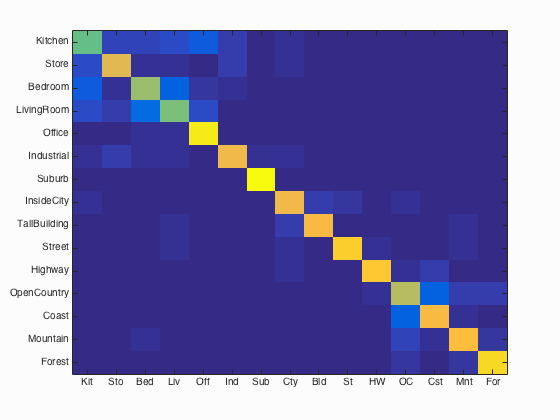
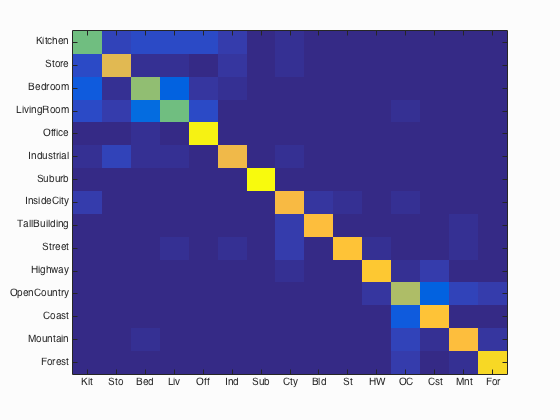
Add thumbnail images

Changed region(s): [[0.3339, 0.0619, 0.3946, 0.1548], [0.1214, 0.4333, 0.1821, 0.5262], [0.4857, 0.5571, 0.5464, 0.619]]

diff --git a/code/results_webpage/index.html b/code/results_webpage/index.html
@@ -50,183 +50,183 @@ Accuracy (mean of diagonal of confusion matrix) is 0.799
 </tr>
 <tr>
 <td>Kitchen</td>
-<td>0.570</td>
-<td bgcolor=LightBlue><img src="thumbnails/Kitchen_image_0034.jpg" width=75.0000000000 height=57.0000000000></td>
-<td bgcolor=LightBlue><img src="thumbnails/Kitchen_image_0199.jpg" width=75.0000000000 height=100.0000000000></td>
-<td bgcolor=LightGreen><img src="thumbnails/Kitchen_image_0115.jpg" width=75.0000000000 height=100.0000000000></td>
-<td bgcolor=LightGreen><img src="thumbnails/Kitchen_image_0171.jpg" width=75.0000000000 height=100.0000000000></td>
-<td bgcolor=LightCoral><img src="thumbnails/InsideCity_image_0012.jpg" width=75.0000000000 height=75.0000000000><br><small>InsideCity</small></td>
-<td bgcolor=LightCoral><img src="thumbnails/Bedroom_image_0013.jpg" width=75.0000000000 height=100.0000000000><br><small>Bedroom</small></td>
-<td bgcolor=#FFBB55><img src="thumbnails/Kitchen_image_0008.jpg" width=75.0000000000 height=100.0000000000><br><small>Office</small></td>
-<td bgcolor=#FFBB55><img src="thumbnails/Kitchen_image_0168.jpg" width=75.0000000000 height=112.0000000000><br><small>Store</small></td>
+<td>0.580</td>
+<td bgcolor=LightBlue><img src="thumbnails/Kitchen_image_0208.jpg" width=75.0000000000 height=100.0000000000></td>
+<td bgcolor=LightBlue><img src="thumbnails/Kitchen_image_0074.jpg" width=75.0000000000 height=107.0000000000></td>
+<td bgcolor=LightGreen><img src="thumbnails/Kitchen_image_0090.jpg" width=75.0000000000 height=113.0000000000></td>
+<td bgcolor=LightGreen><img src="thumbnails/Kitchen_image_0173.jpg" width=75.0000000000 height=98.0000000000></td>
+<td bgcolor=LightCoral><img src="thumbnails/Bedroom_image_0024.jpg" width=75.0000000000 height=95.0000000000><br><small>Bedroom</small></td>
+<td bgcolor=LightCoral><img src="thumbnails/Bedroom_image_0047.jpg" width=75.0000000000 height=101.0000000000><br><small>Bedroom</small></td>
+<td bgcolor=#FFBB55><img src="thumbnails/Kitchen_image_0125.jpg" width=75.0000000000 height=114.0000000000><br><small>Mountain</small></td>
+<td bgcolor=#FFBB55><img src="thumbnails/Kitchen_image_0183.jpg" width=75.0000000000 height=100.0000000000><br><small>Bedroom</small></td>
 </tr>
 <tr>
 <td>Store</td>
-<td>0.770</td>
-<td bgcolor=LightBlue><img src="thumbnails/Store_image_0105.jpg" width=75.0000000000 height=57.0000000000></td>
-<td bgcolor=LightBlue><img src="thumbnails/Store_image_0163.jpg" width=75.0000000000 height=100.0000000000></td>
-<td bgcolor=LightGreen><img src="thumbnails/Store_image_0033.jpg" width=75.0000000000 height=95.0000000000></td>
-<td bgcolor=LightGreen><img src="thumbnails/Store_image_0115.jpg" width=75.0000000000 height=100.0000000000></td>
-<td bgcolor=LightCoral><img src="thumbnails/Kitchen_image_0062.jpg" width=75.0000000000 height=113.0000000000><br><small>Kitchen</small></td>
-<td bgcolor=LightCoral><img src="thumbnails/Industrial_image_0144.jpg" width=75.0000000000 height=100.0000000000><br><small>Industrial</small></td>
-<td bgcolor=#FFBB55><img src="thumbnails/Store_image_0143.jpg" width=75.0000000000 height=113.0000000000><br><small>Kitchen</small></td>
-<td bgcolor=#FFBB55><img src="thumbnails/Store_image_0013.jpg" width=75.0000000000 height=131.0000000000><br><small>Industrial</small></td>
+<td>0.780</td>
+<td bgcolor=LightBlue><img src="thumbnails/Store_image_0298.jpg" width=75.0000000000 height=100.0000000000></td>
+<td bgcolor=LightBlue><img src="thumbnails/Store_image_0177.jpg" width=75.0000000000 height=113.0000000000></td>
+<td bgcolor=LightGreen><img src="thumbnails/Store_image_0106.jpg" width=75.0000000000 height=85.0000000000></td>
+<td bgcolor=LightGreen><img src="thumbnails/Store_image_0040.jpg" width=75.0000000000 height=62.0000000000></td>
+<td bgcolor=LightCoral><img src="thumbnails/Bedroom_image_0112.jpg" width=75.0000000000 height=133.0000000000><br><small>Bedroom</small></td>
+<td bgcolor=LightCoral><img src="thumbnails/Kitchen_image_0113.jpg" width=75.0000000000 height=113.0000000000><br><small>Kitchen</small></td>
+<td bgcolor=#FFBB55><img src="thumbnails/Store_image_0102.jpg" width=75.0000000000 height=100.0000000000><br><small>Industrial</small></td>
+<td bgcolor=#FFBB55><img src="thumbnails/Store_image_0082.jpg" width=75.0000000000 height=135.0000000000><br><small>LivingRoom</small></td>
 </tr>
 <tr>
 <td>Bedroom</td>
-<td>0.650</td>
-<td bgcolor=LightBlue><img src="thumbnails/Bedroom_image_0186.jpg" width=75.0000000000 height=113.0000000000></td>
-<td bgcolor=LightBlue><img src="thumbnails/Bedroom_image_0089.jpg" width=75.0000000000 height=101.0000000000></td>
-<td bgcolor=LightGreen><img src="thumbnails/Bedroom_image_0115.jpg" width=75.0000000000 height=89.0000000000></td>
-<td bgcolor=LightGreen><img src="thumbnails/Bedroom_image_0130.jpg" width=75.0000000000 height=132.0000000000></td>
-<td bgcolor=LightCoral><img src="thumbnails/LivingRoom_image_0037.jpg" width=75.0000000000 height=113.0000000000><br><small>LivingRoom</small></td>
-<td bgcolor=LightCoral><img src="thumbnails/OpenCountry_image_0121.jpg" width=75.0000000000 height=75.0000000000><br><small>OpenCountry</small></td>
-<td bgcolor=#FFBB55><img src="thumbnails/Bedroom_image_0152.jpg" width=75.0000000000 height=106.0000000000><br><small>LivingRoom</small></td>
-<td bgcolor=#FFBB55><img src="thumbnails/Bedroom_image_0030.jpg" width=75.0000000000 height=97.0000000000><br><small>Store</small></td>
+<td>0.640</td>
+<td bgcolor=LightBlue><img src="thumbnails/Bedroom_image_0210.jpg" width=75.0000000000 height=111.0000000000></td>
+<td bgcolor=LightBlue><img src="thumbnails/Bedroom_image_0185.jpg" width=75.0000000000 height=100.0000000000></td>
+<td bgcolor=LightGreen><img src="thumbnails/Bedroom_image_0128.jpg" width=75.0000000000 height=115.0000000000></td>
+<td bgcolor=LightGreen><img src="thumbnails/Bedroom_image_0104.jpg" width=75.0000000000 height=95.0000000000></td>
+<td bgcolor=LightCoral><img src="thumbnails/Store_image_0117.jpg" width=75.0000000000 height=71.0000000000><br><small>Store</small></td>
+<td bgcolor=LightCoral><img src="thumbnails/LivingRoom_image_0062.jpg" width=75.0000000000 height=100.0000000000><br><small>LivingRoom</small></td>
+<td bgcolor=#FFBB55><img src="thumbnails/Bedroom_image_0170.jpg" width=75.0000000000 height=93.0000000000><br><small>LivingRoom</small></td>
+<td bgcolor=#FFBB55><img src="thumbnails/Bedroom_image_0140.jpg" width=75.0000000000 height=113.0000000000><br><small>LivingRoom</small></td>
 </tr>
 <tr>
 <td>LivingRoom</td>
-<td>0.600</td>
-<td bgcolor=LightBlue><img src="thumbnails/LivingRoom_image_0053.jpg" width=75.0000000000 height=100.0000000000></td>
-<td bgcolor=LightBlue><img src="thumbnails/LivingRoom_image_0128.jpg" width=75.0000000000 height=100.0000000000></td>
-<td bgcolor=LightGreen><img src="thumbnails/LivingRoom_image_0027.jpg" width=75.0000000000 height=100.0000000000></td>
-<td bgcolor=LightGreen><img src="thumbnails/LivingRoom_image_0102.jpg" width=75.0000000000 height=113.0000000000></td>
-<td bgcolor=LightCoral><img src="thumbnails/Kitchen_image_0182.jpg" width=75.0000000000 height=100.0000000000><br><small>Kitchen</small></td>
-<td bgcolor=LightCoral><img src="thumbnails/Bedroom_image_0059.jpg" width=75.0000000000 height=110.0000000000><br><small>Bedroom</small></td>
-<td bgcolor=#FFBB55><img src="thumbnails/LivingRoom_image_0045.jpg" width=75.0000000000 height=115.0000000000><br><small>Bedroom</small></td>
+<td>0.580</td>
+<td bgcolor=LightBlue><img src="thumbnails/LivingRoom_image_0211.jpg" width=75.0000000000 height=70.0000000000></td>
+<td bgcolor=LightBlue><img src="thumbnails/LivingRoom_image_0144.jpg" width=75.0000000000 height=114.0000000000></td>
+<td bgcolor=LightGreen><img src="thumbnails/LivingRoom_image_0043.jpg" width=75.0000000000 height=100.0000000000></td>
+<td bgcolor=LightGreen><img src="thumbnails/LivingRoom_image_0071.jpg" width=75.0000000000 height=113.0000000000></td>
+<td bgcolor=LightCoral><img src="thumbnails/Bedroom_image_0081.jpg" width=75.0000000000 height=107.0000000000><br><small>Bedroom</small></td>
+<td bgcolor=LightCoral><img src="thumbnails/Kitchen_image_0027.jpg" width=75.0000000000 height=57.0000000000><br><small>Kitchen</small></td>
+<td bgcolor=#FFBB55><img src="thumbnails/LivingRoom_image_0062.jpg" width=75.0000000000 height=100.0000000000><br><small>Bedroom</small></td>
 <td bgcolor=#FFBB55><img src="thumbnails/LivingRoom_image_0021.jpg" width=75.0000000000 height=109.0000000000><br><small>Kitchen</small></td>
 </tr>
 <tr>
 <td>Office</td>
-<td>0.960</td>
-<td bgcolor=LightBlue><img src="thumbnails/Office_image_0187.jpg" width=75.0000000000 height=106.0000000000></td>
-<td bgcolor=LightBlue><img src="thumbnails/Office_image_0129.jpg" width=75.0000000000 height=105.0000000000></td>
-<td bgcolor=LightGreen><img src="thumbnails/Office_image_0047.jpg" width=75.0000000000 height=111.0000000000></td>
-<td bgcolor=LightGreen><img src="thumbnails/Office_image_0168.jpg" width=75.0000000000 height=112.0000000000></td>
-<td bgcolor=LightCoral><img src="thumbnails/LivingRoom_image_0117.jpg" width=75.0000000000 height=114.0000000000><br><small>LivingRoom</small></td>
+<td>0.970</td>
+<td bgcolor=LightBlue><img src="thumbnails/Office_image_0093.jpg" width=75.0000000000 height=118.0000000000></td>
+<td bgcolor=LightBlue><img src="thumbnails/Office_image_0002.jpg" width=75.0000000000 height=110.0000000000></td>
+<td bgcolor=LightGreen><img src="thumbnails/Office_image_0130.jpg" width=75.0000000000 height=93.0000000000></td>
+<td bgcolor=LightGreen><img src="thumbnails/Office_image_0038.jpg" width=75.0000000000 height=119.0000000000></td>
 <td bgcolor=LightCoral><img src="thumbnails/Bedroom_image_0056.jpg" width=75.0000000000 height=113.0000000000><br><small>Bedroom</small></td>
-<td bgcolor=#FFBB55><img src="thumbnails/Office_image_0050.jpg" width=75.0000000000 height=97.0000000000><br><small>LivingRoom</small></td>
-<td bgcolor=#FFBB55><img src="thumbnails/Office_image_0144.jpg" width=75.0000000000 height=115.0000000000><br><small>LivingRoom</small></td>
+<td bgcolor=LightCoral><img src="thumbnails/Store_image_0090.jpg" width=75.0000000000 height=112.0000000000><br><small>Store</small></td>
+<td bgcolor=#FFBB55><img src="thumbnails/Office_image_0062.jpg" width=75.0000000000 height=110.0000000000><br><small>Bedroom</small></td>
+<td bgcolor=#FFBB55><img src="thumbnails/Office_image_0146.jpg" width=75.0000000000 height=121.0000000000><br><small>Bedroom</small></td>
 </tr>
 <tr>
 <td>Industrial</td>
 <td>0.800</td>
-<td bgcolor=LightBlue><img src="thumbnails/Industrial_image_0097.jpg" width=75.0000000000 height=57.0000000000></td>
-<td bgcolor=LightBlue><img src="thumbnails/Industrial_image_0128.jpg" width=75.0000000000 height=130.0000000000></td>
-<td bgcolor=LightGreen><img src="thumbnails/Industrial_image_0030.jpg" width=75.0000000000 height=113.0000000000></td>
-<td bgcolor=LightGreen><img src="thumbnails/Industrial_image_0049.jpg" width=75.0000000000 height=100.0000000000></td>
-<td bgcolor=LightCoral><img src="thumbnails/Store_image_0102.jpg" width=75.0000000000 height=100.0000000000><br><small>Store</small></td>
-<td bgcolor=LightCoral><img src="thumbnails/Store_image_0077.jpg" width=75.0000000000 height=87.0000000000><br><small>Store</small></td>
-<td bgcolor=#FFBB55><img src="thumbnails/Industrial_image_0027.jpg" width=75.0000000000 height=92.0000000000><br><small>Suburb</small></td>
-<td bgcolor=#FFBB55><img src="thumbnails/Industrial_image_0115.jpg" width=75.0000000000 height=94.0000000000><br><small>Suburb</small></td>
+<td bgcolor=LightBlue><img src="thumbnails/Industrial_image_0186.jpg" width=75.0000000000 height=118.0000000000></td>
+<td bgcolor=LightBlue><img src="thumbnails/Industrial_image_0051.jpg" width=75.0000000000 height=94.0000000000></td>
+<td bgcolor=LightGreen><img src="thumbnails/Industrial_image_0026.jpg" width=75.0000000000 height=97.0000000000></td>
+<td bgcolor=LightGreen><img src="thumbnails/Industrial_image_0055.jpg" width=75.0000000000 height=100.0000000000></td>
+<td bgcolor=LightCoral><img src="thumbnails/Bedroom_image_0050.jpg" width=75.0000000000 height=113.0000000000><br><small>Bedroom</small></td>
+<td bgcolor=LightCoral><img src="thumbnails/Street_image_0149.jpg" width=75.0000000000 height=75.0000000000><br><small>Street</small></td>
+<td bgcolor=#FFBB55><img src="thumbnails/Industrial_image_0129.jpg" width=75.0000000000 height=110.0000000000><br><small>Store</small></td>
+<td bgcolor=#FFBB55><img src="thumbnails/Industrial_image_0130.jpg" width=75.0000000000 height=109.0000000000><br><small>Kitchen</small></td>
 </tr>
 <tr>
 <td>Suburb</td>
 <td>0.990</td>
-<td bgcolor=LightBlue><img src="thumbnails/Suburb_image_0131.jpg" width=75.0000000000 height=113.0000000000></td>
-<td bgcolor=LightBlue><img src="thumbnails/Suburb_image_0106.jpg" width=75.0000000000 height=113.0000000000></td>
-<td bgcolor=LightGreen><img src="thumbnails/Suburb_image_0043.jpg" width=75.0000000000 height=113.0000000000></td>
-<td bgcolor=LightGreen><img src="thumbnails/Suburb_image_0088.jpg" width=75.0000000000 height=113.0000000000></td>
-<td bgcolor=LightCoral><img src="thumbnails/Industrial_image_0027.jpg" width=75.0000000000 height=92.0000000000><br><small>Industrial</small></td>
-<td bgcolor=LightCoral><img src="thumbnails/OpenCountry_image_0058.jpg" width=75.0000000000 height=75.0000000000><br><small>OpenCountry</small></td>
+<td bgcolor=LightBlue><img src="thumbnails/Suburb_image_0218.jpg" width=75.0000000000 height=113.0000000000></td>
+<td bgcolor=LightBlue><img src="thumbnails/Suburb_image_0002.jpg" width=75.0000000000 height=113.0000000000></td>
+<td bgcolor=LightGreen><img src="thumbnails/Suburb_image_0074.jpg" width=75.0000000000 height=113.0000000000></td>
+<td bgcolor=LightGreen><img src="thumbnails/Suburb_image_0070.jpg" width=75.0000000000 height=113.0000000000></td>
+<td bgcolor=LightCoral><img src="thumbnails/OpenCountry_image_0076.jpg" width=75.0000000000 height=75.0000000000><br><small>OpenCountry</small></td>
+<td bgcolor=LightCoral><img src="thumbnails/Industrial_image_0115.jpg" width=75.0000000000 height=94.0000000000><br><small>Industrial</small></td>
 <td bgcolor=#FFBB55><img src="thumbnails/Suburb_image_0171.jpg" width=75.0000000000 height=113.0000000000><br><small>InsideCity</small></td>
 <td bgcolor=#FFBB55></td>
 </tr>
 <tr>
 <td>InsideCity</td>
-<td>0.810</td>
-<td bgcolor=LightBlue><img src="thumbnails/InsideCity_image_0278.jpg" width=75.0000000000 height=75.0000000000></td>
-<td bgcolor=LightBlue><img src="thumbnails/InsideCity_image_0148.jpg" width=75.0000000000 height=75.0000000000></td>
-<td bgcolor=LightGreen><img src="thumbnails/InsideCity_image_0066.jpg" width=75.0000000000 height=75.0000000000></td>
+<td>0.820</td>
+<td bgcolor=LightBlue><img src="thumbnails/InsideCity_image_0028.jpg" width=75.0000000000 height=75.0000000000></td>
+<td bgcolor=LightBlue><img src="thumbnails/InsideCity_image_0108.jpg" width=75.0000000000 height=75.0000000000></td>
 <td bgcolor=LightGreen><img src="thumbnails/InsideCity_image_0087.jpg" width=75.0000000000 height=75.0000000000></td>
+<td bgcolor=LightGreen><img src="thumbnails/InsideCity_image_0088.jpg" width=75.0000000000 height=75.0000000000></td>
+<td bgcolor=LightCoral><img src="thumbnails/Kitchen_image_0044.jpg" width=75.0000000000 height=90.0000000000><br><small>Kitchen</small></td>
 <td bgcolor=LightCoral><img src="thumbnails/Store_image_0136.jpg" width=75.0000000000 height=70.0000000000><br><small>Store</small></td>
-<td bgcolor=LightCoral><img src="thumbnails/Kitchen_image_0119.jpg" width=75.0000000000 height=57.0000000000><br><small>Kitchen</small></td>
-<td bgcolor=#FFBB55><img src="thumbnails/InsideCity_image_0133.jpg" width=75.0000000000 height=75.0000000000><br><small>Street</small></td>
-<td bgcolor=#FFBB55><img src="thumbnails/InsideCity_image_0068.jpg" width=75.0000000000 height=75.0000000000><br><small>Store</small></td>
+<td bgcolor=#FFBB55><img src="thumbnails/InsideCity_image_0073.jpg" width=75.0000000000 height=75.0000000000><br><small>OpenCountry</small></td>
+<td bgcolor=#FFBB55><img src="thumbnails/InsideCity_image_0023.jpg" width=75.0000000000 height=75.0000000000><br><small>TallBuilding</small></td>
 </tr>
 <tr>
 <td>TallBuilding</td>
-<td>0.820</td>
-<td bgcolor=LightBlue><img src="thumbnails/TallBuilding_image_0262.jpg" width=75.0000000000 height=75.0000000000></td>
-<td bgcolor=LightBlue><img src="thumbnails/TallBuilding_image_0330.jpg" width=75.0000000000 height=75.0000000000></td>
-<td bgcolor=LightGreen><img src="thumbnails/TallBuilding_image_0085.jpg" width=75.0000000000 height=75.0000000000></td>
-<td bgcolor=LightGreen><img src="thumbnails/TallBuilding_image_0005.jpg" width=75.0000000000 height=75.0000000000></td>
+<td>0.830</td>
+<td bgcolor=LightBlue><img src="thumbnails/TallBuilding_image_0159.jpg" width=75.0000000000 height=75.0000000000></td>
+<td bgcolor=LightBlue><img src="thumbnails/TallBuilding_image_0178.jpg" width=75.0000000000 height=75.0000000000></td>
+<td bgcolor=LightGreen><img src="thumbnails/TallBuilding_image_0122.jpg" width=75.0000000000 height=75.0000000000></td>
+<td bgcolor=LightGreen><img src="thumbnails/TallBuilding_image_0039.jpg" width=75.0000000000 height=75.0000000000></td>
 <td bgcolor=LightCoral><img src="thumbnails/InsideCity_image_0049.jpg" width=75.0000000000 height=75.0000000000><br><small>InsideCity</small></td>
-<td bgcolor=LightCoral><img src="thumbnails/InsideCity_image_0054.jpg" width=75.0000000000 height=75.0000000000><br><small>InsideCity</small></td>
-<td bgcolor=#FFBB55><img src="thumbnails/TallBuilding_image_0091.jpg" width=75.0000000000 height=75.0000000000><br><small>Street</small></td>
-<td bgcolor=#FFBB55><img src="thumbnails/TallBuilding_image_0083.jpg" width=75.0000000000 height=75.0000000000><br><small>Mountain</small></td>
+<td bgcolor=LightCoral><img src="thumbnails/InsideCity_image_0023.jpg" width=75.0000000000 height=75.0000000000><br><small>InsideCity</small></td>
+<td bgcolor=#FFBB55><img src="thumbnails/TallBuilding_image_0084.jpg" width=75.0000000000 height=75.0000000000><br><small>Coast</small></td>
+<td bgcolor=#FFBB55><img src="thumbnails/TallBuilding_image_0048.jpg" width=75.0000000000 height=75.0000000000><br><small>Mountain</small></td>
 </tr>
 <tr>
 <td>Street</td>
-<td>0.880</td>
-<td bgcolor=LightBlue><img src="thumbnails/Street_image_0130.jpg" width=75.0000000000 height=75.0000000000></td>
-<td bgcolor=LightBlue><img src="thumbnails/Street_image_0099.jpg" width=75.0000000000 height=75.0000000000></td>
-<td bgcolor=LightGreen><img src="thumbnails/Street_image_0007.jpg" width=75.0000000000 height=75.0000000000></td>
-<td bgcolor=LightGreen><img src="thumbnails/Street_image_0087.jpg" width=75.0000000000 height=75.0000000000></td>
-<td bgcolor=LightCoral><img src="thumbnails/LivingRoom_image_0107.jpg" width=75.0000000000 height=129.0000000000><br><small>LivingRoom</small></td>
-<td bgcolor=LightCoral><img src="thumbnails/InsideCity_image_0118.jpg" width=75.0000000000 height=75.0000000000><br><small>InsideCity</small></td>
-<td bgcolor=#FFBB55><img src="thumbnails/Street_image_0022.jpg" width=75.0000000000 height=75.0000000000><br><small>Mountain</small></td>
+<td>0.850</td>
+<td bgcolor=LightBlue><img src="thumbnails/Street_image_0065.jpg" width=75.0000000000 height=75.0000000000></td>
+<td bgcolor=LightBlue><img src="thumbnails/Street_image_0033.jpg" width=75.0000000000 height=75.0000000000></td>
+<td bgcolor=LightGreen><img src="thumbnails/Street_image_0141.jpg" width=75.0000000000 height=75.0000000000></td>
+<td bgcolor=LightGreen><img src="thumbnails/Street_image_0050.jpg" width=75.0000000000 height=75.0000000000></td>
+<td bgcolor=LightCoral><img src="thumbnails/InsideCity_image_0137.jpg" width=75.0000000000 height=75.0000000000><br><small>InsideCity</small></td>
+<td bgcolor=LightCoral><img src="thumbnails/InsideCity_image_0057.jpg" width=75.0000000000 height=75.0000000000><br><small>InsideCity</small></td>
+<td bgcolor=#FFBB55><img src="thumbnails/Street_image_0049.jpg" width=75.0000000000 height=75.0000000000><br><small>Mountain</small></td>
 <td bgcolor=#FFBB55><img src="thumbnails/Street_image_0017.jpg" width=75.0000000000 height=75.0000000000><br><small>InsideCity</small></td>
 </tr>
 <tr>
 <td>Highway</td>
 <td>0.860</td>
-<td bgcolor=LightBlue><img src="thumbnails/Highway_image_0066.jpg" width=75.0000000000 height=75.0000000000></td>
-<td bgcolor=LightBlue><img src="thumbnails/Highway_image_0199.jpg" width=75.0000000000 height=75.0000000000></td>
-<td bgcolor=LightGreen><img src="thumbnails/Highway_image_0007.jpg" width=75.0000000000 height=75.0000000000></td>
-<td bgcolor=LightGreen><img src="thumbnails/Highway_image_0041.jpg" width=75.0000000000 height=75.0000000000></td>
-<td bgcolor=LightCoral><img src="thumbnails/Coast_image_0088.jpg" width=75.0000000000 height=75.0000000000><br><small>Coast</small></td>
+<td bgcolor=LightBlue><img src="thumbnails/Highway_image_0198.jpg" width=75.0000000000 height=75.0000000000></td>
+<td bgcolor=LightBlue><img src="thumbnails/Highway_image_0170.jpg" width=75.0000000000 height=75.0000000000></td>
+<td bgcolor=LightGreen><img src="thumbnails/Highway_image_0108.jpg" width=75.0000000000 height=75.0000000000></td>
+<td bgcolor=LightGreen><img src="thumbnails/Highway_image_0003.jpg" width=75.0000000000 height=75.0000000000></td>
 <td bgcolor=LightCoral><img src="thumbnails/OpenCountry_image_0063.jpg" width=75.0000000000 height=75.0000000000><br><small>OpenCountry</small></td>
-<td bgcolor=#FFBB55><img src="thumbnails/Highway_image_0133.jpg" width=75.0000000000 height=75.0000000000><br><small>Coast</small></td>
-<td bgcolor=#FFBB55><img src="thumbnails/Highway_image_0031.jpg" width=75.0000000000 height=75.0000000000><br><small>Coast</small></td>
+<td bgcolor=LightCoral><img src="thumbnails/OpenCountry_image_0058.jpg" width=75.0000000000 height=75.0000000000><br><small>OpenCountry</small></td>
+<td bgcolor=#FFBB55><img src="thumbnails/Highway_image_0014.jpg" width=75.0000000000 height=75.0000000000><br><small>InsideCity</small></td>
+<td bgcolor=#FFBB55><img src="thumbnails/Highway_image_0035.jpg" width=75.0000000000 height=75.0000000000><br><small>Store</small></td>
 </tr>
 <tr>
 <td>OpenCountry</td>
-<td>0.700</td>
-<td bgcolor=LightBlue><img src="thumbnails/OpenCountry_image_0075.jpg" width=75.0000000000 height=75.0000000000></td>
-<td bgcolor=LightBlue><img src="thumbnails/OpenCountry_image_0307.jpg" width=75.0000000000 height=75.0000000000></td>
-<td bgcolor=LightGreen><img src="thumbnails/OpenCountry_image_0051.jpg" width=75.0000000000 height=75.0000000000></td>
-<td bgcolor=LightGreen><img src="thumbnails/OpenCountry_image_0032.jpg" width=75.0000000000 height=75.0000000000></td>
-<td bgcolor=LightCoral><img src="thumbnails/Coast_image_0070.jpg" width=75.0000000000 height=75.0000000000><br><small>Coast</small></td>
-<td bgcolor=LightCoral><img src="thumbnails/Forest_image_0080.jpg" width=75.0000000000 height=75.0000000000><br><small>Forest</small></td>
-<td bgcolor=#FFBB55><img src="thumbnails/OpenCountry_image_0097.jpg" width=75.0000000000 height=75.0000000000><br><small>Coast</small></td>
-<td bgcolor=#FFBB55><img src="thumbnails/OpenCountry_image_0011.jpg" width=75.0000000000 height=75.0000000000><br><small>Coast</small></td>
+<td>0.680</td>
+<td bgcolor=LightBlue><img src="thumbnails/OpenCountry_image_0389.jpg" width=75.0000000000 height=75.0000000000></td>
+<td bgcolor=LightBlue><img src="thumbnails/OpenCountry_image_0390.jpg" width=75.0000000000 height=75.0000000000></td>
+<td bgcolor=LightGreen><img src="thumbnails/OpenCountry_image_0111.jpg" width=75.0000000000 height=75.0000000000></td>
+<td bgcolor=LightGreen><img src="thumbnails/OpenCountry_image_0104.jpg" width=75.0000000000 height=75.0000000000></td>
+<td bgcolor=LightCoral><img src="thumbnails/Coast_image_0030.jpg" width=75.0000000000 height=75.0000000000><br><small>Coast</small></td>
+<td bgcolor=LightCoral><img src="thumbnails/Mountain_image_0075.jpg" width=75.0000000000 height=75.0000000000><br><small>Mountain</small></td>
+<td bgcolor=#FFBB55><img src="thumbnails/OpenCountry_image_0101.jpg" width=75.0000000000 height=75.0000000000><br><small>Coast</small></td>
+<td bgcolor=#FFBB55><img src="thumbnails/OpenCountry_image_0012.jpg" width=75.0000000000 height=75.0000000000><br><small>Street</small></td>
 </tr>
 <tr>
 <td>Coast</td>
-<td>0.820</td>
-<td bgcolor=LightBlue><img src="thumbnails/Coast_image_0261.jpg" width=75.0000000000 height=75.0000000000></td>
-<td bgcolor=LightBlue><img src="thumbnails/Coast_image_0239.jpg" width=75.0000000000 height=75.0000000000></td>
+<td>0.850</td>
+<td bgcolor=LightBlue><img src="thumbnails/Coast_image_0208.jpg" width=75.0000000000 height=75.0000000000></td>
+<td bgcolor=LightBlue><img src="thumbnails/Coast_image_0123.jpg" width=75.0000000000 height=75.0000000000></td>
 <td bgcolor=LightGreen><img src="thumbnails/Coast_image_0014.jpg" width=75.0000000000 height=75.0000000000></td>
 <td bgcolor=LightGreen><img src="thumbnails/Coast_image_0121.jpg" width=75.0000000000 height=75.0000000000></td>
-<td bgcolor=LightCoral><img src="thumbnails/TallBuilding_image_0084.jpg" width=75.0000000000 height=75.0000000000><br><small>TallBuilding</small></td>
-<td bgcolor=LightCoral><img src="thumbnails/Mountain_image_0005.jpg" width=75.0000000000 height=75.0000000000><br><small>Mountain</small></td>
-<td bgcolor=#FFBB55><img src="thumbnails/Coast_image_0092.jpg" width=75.0000000000 height=75.0000000000><br><small>OpenCountry</small></td>
-<td bgcolor=#FFBB55><img src="thumbnails/Coast_image_0051.jpg" width=75.0000000000 height=75.0000000000><br><small>OpenCountry</small></td>
+<td bgcolor=LightCoral><img src="thumbnails/Highway_image_0133.jpg" width=75.0000000000 height=75.0000000000><br><small>Highway</small></td>
+<td bgcolor=LightCoral><img src="thumbnails/OpenCountry_image_0123.jpg" width=75.0000000000 height=75.0000000000><br><small>OpenCountry</small></td>
+<td bgcolor=#FFBB55><img src="thumbnails/Coast_image_0041.jpg" width=75.0000000000 height=75.0000000000><br><small>OpenCountry</small></td>
+<td bgcolor=#FFBB55><img src="thumbnails/Coast_image_0107.jpg" width=75.0000000000 height=75.0000000000><br><small>OpenCountry</small></td>
 </tr>
 <tr>
 <td>Mountain</td>
 <td>0.840</td>
-<td bgcolor=LightBlue><img src="thumbnails/Mountain_image_0102.jpg" width=75.0000000000 height=75.0000000000></td>
-<td bgcolor=LightBlue><img src="thumbnails/Mountain_image_0306.jpg" width=75.0000000000 height=75.0000000000></td>
-<td bgcolor=LightGreen><img src="thumbnails/Mountain_image_0119.jpg" width=75.0000000000 height=75.0000000000></td>
-<td bgcolor=LightGreen><img src="thumbnails/Mountain_image_0027.jpg" width=75.0000000000 height=75.0000000000></td>
+<td bgcolor=LightBlue><img src="thumbnails/Mountain_image_0024.jpg" width=75.0000000000 height=75.0000000000></td>
+<td bgcolor=LightBlue><img src="thumbnails/Mountain_image_0084.jpg" width=75.0000000000 height=75.0000000000></td>
+<td bgcolor=LightGreen><img src="thumbnails/Mountain_image_0053.jpg" width=75.0000000000 height=75.0000000000></td>
+<td bgcolor=LightGreen><img src="thumbnails/Mountain_image_0089.jpg" width=75.0000000000 height=75.0000000000></td>
+<td bgcolor=LightCoral><img src="thumbnails/OpenCountry_image_0004.jpg" width=75.0000000000 height=75.0000000000><br><small>OpenCountry</small></td>
 <td bgcolor=LightCoral><img src="thumbnails/TallBuilding_image_0048.jpg" width=75.0000000000 height=75.0000000000><br><small>TallBuilding</small></td>
-<td bgcolor=LightCoral><img src="thumbnails/TallBuilding_image_0099.jpg" width=75.0000000000 height=75.0000000000><br><small>TallBuilding</small></td>
-<td bgcolor=#FFBB55><img src="thumbnails/Mountain_image_0075.jpg" width=75.0000000000 height=75.0000000000><br><small>OpenCountry</small></td>
-<td bgcolor=#FFBB55><img src="thumbnails/Mountain_image_0118.jpg" width=75.0000000000 height=75.0000000000><br><small>OpenCountry</small></td>
+<td bgcolor=#FFBB55><img src="thumbnails/Mountain_image_0061.jpg" width=75.0000000000 height=75.0000000000><br><small>OpenCountry</small></td>
+<td bgcolor=#FFBB55><img src="thumbnails/Mountain_image_0005.jpg" width=75.0000000000 height=75.0000000000><br><small>Coast</small></td>
 </tr>
 <tr>
 <td>Forest</td>
 <td>0.920</td>
-<td bgcolor=LightBlue><img src="thumbnails/Forest_image_0143.jpg" width=75.0000000000 height=75.0000000000></td>
-<td bgcolor=LightBlue><img src="thumbnails/Forest_image_0240.jpg" width=75.0000000000 height=75.0000000000></td>
-<td bgcolor=LightGreen><img src="thumbnails/Forest_image_0076.jpg" width=75.0000000000 height=75.0000000000></td>
-<td bgcolor=LightGreen><img src="thumbnails/Forest_image_0083.jpg" width=75.0000000000 height=75.0000000000></td>
-<td bgcolor=LightCoral><img src="thumbnails/Mountain_image_0101.jpg" width=75.0000000000 height=75.0000000000><br><small>Mountain</small></td>
-<td bgcolor=LightCoral><img src="thumbnails/OpenCountry_image_0044.jpg" width=75.0000000000 height=75.0000000000><br><small>OpenCountry</small></td>
-<td bgcolor=#FFBB55><img src="thumbnails/Forest_image_0128.jpg" width=75.0000000000 height=75.0000000000><br><small>Mountain</small></td>
-<td bgcolor=#FFBB55><img src="thumbnails/Forest_image_0124.jpg" width=75.0000000000 height=75.0000000000><br><small>Mountain</small></td>
+<td bgcolor=LightBlue><img src="thumbnails/Forest_image_0129.jpg" width=75.0000000000 height=75.0000000000></td>
+<td bgcolor=LightBlue><img src="thumbnails/Forest_image_0298.jpg" width=75.0000000000 height=75.0000000000></td>
+<td bgcolor=LightGreen><img src="thumbnails/Forest_image_0011.jpg" width=75.0000000000 height=75.0000000000></td>
+<td bgcolor=LightGreen><img src="thumbnails/Forest_image_0093.jpg" width=75.0000000000 height=75.0000000000></td>
+<td bgcolor=LightCoral><img src="thumbnails/OpenCountry_image_0069.jpg" width=75.0000000000 height=75.0000000000><br><small>OpenCountry</small></td>
+<td bgcolor=LightCoral><img src="thumbnails/OpenCountry_image_0065.jpg" width=75.0000000000 height=75.0000000000><br><small>OpenCountry</small></td>
+<td bgcolor=#FFBB55><img src="thumbnails/Forest_image_0081.jpg" width=75.0000000000 height=75.0000000000><br><small>OpenCountry</small></td>
+<td bgcolor=#FFBB55><img src="thumbnails/Forest_image_0117.jpg" width=75.0000000000 height=75.0000000000><br><small>Mountain</small></td>
 </tr>
 <tr>
 <th>Category name</th>
